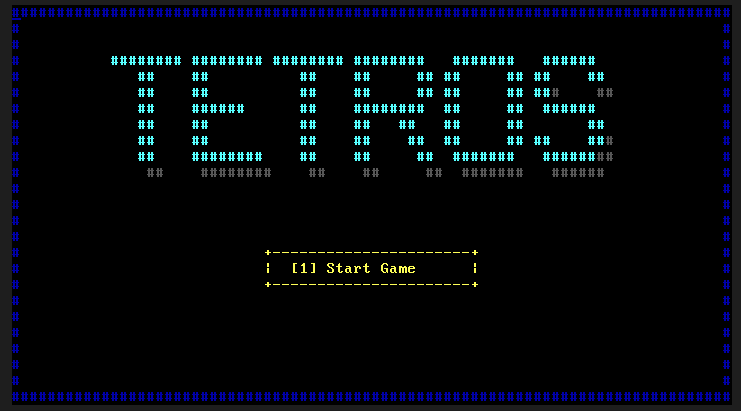
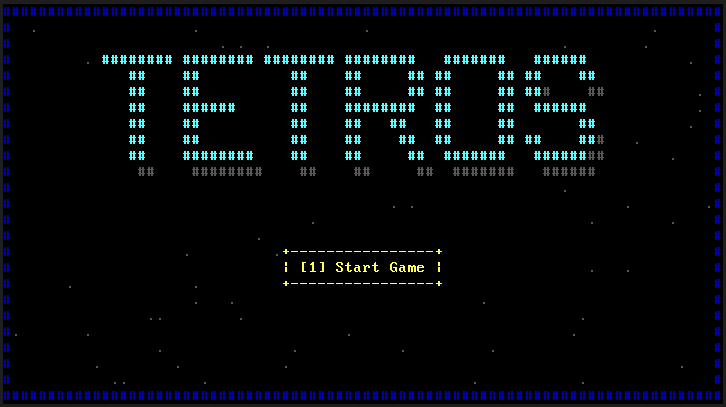
Add game over to losing screen

Changed region(s): [[0.0, 0.0, 1.0, 1.0], [0.1212, 0.1179, 0.8485, 0.4423], [0.3636, 0.5897, 0.6364, 0.7076]]

diff --git a/src/kernel/kernel.c b/src/kernel/kernel.c
@@ -1,6 +1,7 @@
 #include "kernel.h"
 #include "tetris/tetris.h"
 
+// List of keys ("key number" is index)
 const char keyboard_scancodes[128] = {
 0,  27, '1','2','3','4','5','6','7','8','9','0','-','=', '\b',
 '\t',
@@ -16,9 +17,27 @@ const char keyboard_scancodes[128] = {
 ' ',
 };
 
+static char pressed_key = 0;
+
+void keyboard_irq(Registers* regs) {
+    uint8_t scancode = inb(0x60);  // Get "key number"
+    if (scancode < 128) { // press
+        char c = keyboard_scancodes[scancode]; // get key from list
+        if (c) {
+            pressed_key = c; // store key 
+        }
+    }
+    else { // release
+        char c = keyboard_scancodes[scancode - 128]; // get key from list
+        if (c && pressed_key == c) { // if it is the current key
+            pressed_key = 0;  // delete current key
+        }
+    }
+}
+
+
 uint16_t timer_event_count = 0;
 timer_event timer_events[MAX_TIMER_EVENTS] = {0};
-static char pressed_key = 0;
 volatile uint32_t cursor_position = 0;
 
 static uint32_t random_seed = 1234567890;
@@ -32,21 +51,6 @@ void timer_irq(Registers* regs) {
     timer_ticks++;
 }
 
-void keyboard_irq(Registers* regs) {
-    uint8_t scancode = inb(0x60);
-    if (scancode < 128) { // press
-        char c = keyboard_scancodes[scancode];
-        if (c) {
-            pressed_key = c;
-        }
-    }
-    else { // release
-        char c = keyboard_scancodes[scancode - 128];
-        if (c && pressed_key == c) {
-            pressed_key = 0;
-        }
-    }
-}
 
 int get_timer_ticks() {
     return timer_ticks;
@@ -190,6 +194,7 @@ void iota(int n, char* buffer) {
 
 void switch_buffers() {
     volatile unsigned short* video_memory = (unsigned short*)VIDEO_MEMORY;
+    // Overwrite screen
     for (int i = 0; i < VIDEO_WIDTH * VIDEO_HEIGHT; i++) {
         video_memory[i] = backbuffer[i];
     }

diff --git a/src/tetris/tetris.c b/src/tetris/tetris.c
@@ -536,6 +536,8 @@ void end_game() {
             }
         }
     }
+    // Display game over
+    render_text_panel(VIDEO_WIDTH / 2, VIDEO_HEIGHT / 2 - 2, 12, 3, "GAME OVER", RED_ON_BLACK);
     block_held = false;
     block_active = false;
 }